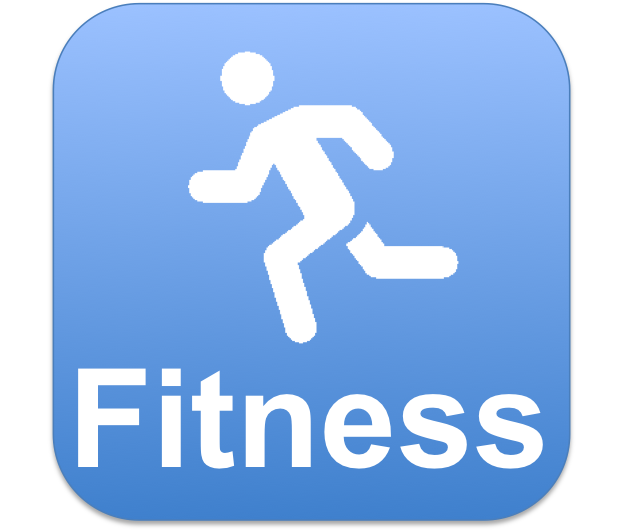
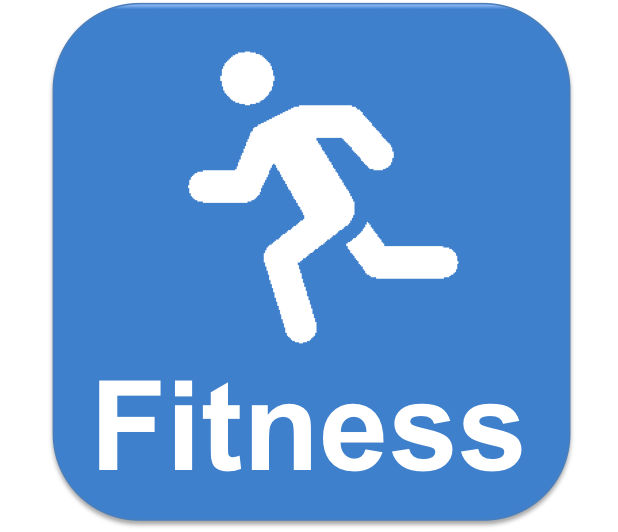
updated UI with images made in powerpoint.. TODO: invest in photoshop

diff --git a/thoughtfulgiftgen/templates/blog/index.html b/thoughtfulgiftgen/templates/blog/index.html
@@ -12,31 +12,33 @@ TODO:
     this is what you should do
 </section>
 <form class="submit-form" action="/submit/" method="GET">{% csrf_token %}
-<section id="gender" class="grid-half">
+<section id="gender" class="grid-fourth">
     <div class="section-title">
         Gender:
     </div>
 
-    <img id="female_gender_icon" class="gender_icon" src="{{STATIC_URL}}/img/gender-icon/female.png" width="50px" height="150px" value="Female">
-    <img id="male_gender_icon" class="gender_icon" src="{{STATIC_URL}}/img/gender-icon/male.png" width="50px" height="150px" value="Male">
+    <img id="female_gender_icon" class="gender_icon" src="{{STATIC_URL}}/img/gender-icon/female.png" width="58px" height="175px" value="Female">
+    <img id="male_gender_icon" class="gender_icon" src="{{STATIC_URL}}/img/gender-icon/male.png" width="57px" height="175px" value="Male">
     <input id="gender_input" type="hidden" name="gender" />
 
 </section>
-<section id="age" class="grid-half">
+<section id="age" class="grid-fourth">
     <div class="section-title">
         Age:
     </div>
     <div>
         <span>
-            <img id="age_1" class="age_icon" value="age_1" src="{{STATIC_URL}}img/age_zero_to_five.png" width="85px">
-            <img id="age_2" class="age_icon" value="age_2" src="{{STATIC_URL}}img/age_zero_to_five.png" width="85px">
-            <img id="age_3" class="age_icon" value="age_3" src="{{STATIC_URL}}img/age_zero_to_five.png" width="85px">
-            <img id="age_4" class="age_icon" value="age_4" src="{{STATIC_URL}}img/age_zero_to_five.png" width="85px">
+            <img id="age_1" class="age_icon" value="age_1" src="{{STATIC_URL}}img/age-icon/age-1.png" width="85px">
+            <img id="age_2" class="age_icon" value="age_2" src="{{STATIC_URL}}img/age-icon/age-2a.png" width="85px">
+            <img id="age_3" class="age_icon" value="age_3" src="{{STATIC_URL}}img/age-icon/age-3b.png" width="85px">
+            <img id="age_4" class="age_icon" value="age_4" src="{{STATIC_URL}}img/age-icon/age-4b.png" width="85px">
+            <img id="age_5" class="age_icon" value="age_4" src="{{STATIC_URL}}img/age-icon/age-5b.png" width="85px">
+            <img id="age_6" class="age_icon" value="age_4" src="{{STATIC_URL}}img/age-icon/age-6b.png" width="85px">
             <input id="age_input" type="hidden" name="age" />
         </span>
     </div>
 </section>
-<section id="category" class="grid-full">
+<section id="category" class="grid-fourth">
     <div class="section-title">
         Category:
     </div>
@@ -48,7 +50,7 @@ TODO:
         <img id="fitness_flag"class="category_icon" src="{{STATIC_URL}}img/category-icon/fitness.png" width="85px" value="fitness">
         <input id="fitness_flag_input" type="hidden" name="fitness_flag" />
         
-        <img id="fashion_flag"class="category_icon" src="{{STATIC_URL}}img/category-icon/fashion2.png" width="85px" value="fashion">
+        <img id="fashion_flag"class="category_icon" src="{{STATIC_URL}}img/category-icon/fashion.png" width="85px" value="fashion">
         <input id="fashion_flag_input" type="hidden" name="fashion_flag" />
                 
         <img id="travel_flag" class="category_icon" src="{{STATIC_URL}}img/category-icon/travel.png" width="85px" value="travel">
@@ -60,16 +62,16 @@ TODO:
         <img id="home_flag" class="category_icon" src="{{STATIC_URL}}img/category-icon/home.png" width="85px" value="music">
         <input id="music_flag_input" type="hidden" name="home_flag" />
 </section>
-<section id="amount" class="grid-full">
+<section id="amount" class="grid-fourth">
     <div class="section-title">
         Price:
     </div>
     <div>
         <span>
-            <img id="price_1" class="price_icon" value="price_1" src="{{STATIC_URL}}img/price-icon/price-1.png" width="85px">
-            <img id="price_2" class="price_icon" value="price_2" src="{{STATIC_URL}}img/price-icon/price-2.png" width="85px">
-            <img id="price_3" class="price_icon" value="price_3" src="{{STATIC_URL}}img/price-icon/price-3.png" width="85px">
-            <img id="price_4" class="price_icon" value="price_4" src="{{STATIC_URL}}img/price-icon/price-4.png" width="85px">
+            <img id="price_1" class="price_icon" value="price_1" src="{{STATIC_URL}}img/price-icon/price-1a.png" data-alt-src="{{STATIC_URL}}img/price-icon/price-1b.png" width="85px">
+            <img id="price_2" class="price_icon" value="price_2" src="{{STATIC_URL}}img/price-icon/price-2a.png" data-alt-src="{{STATIC_URL}}img/price-icon/price-2b.png" width="85px">
+            <img id="price_3" class="price_icon" value="price_3" src="{{STATIC_URL}}img/price-icon/price-3a.png" data-alt-src="{{STATIC_URL}}img/price-icon/price-3b.png" width="85px">
+            <img id="price_4" class="price_icon" value="price_4" src="{{STATIC_URL}}img/price-icon/price-4a.png" data-alt-src="{{STATIC_URL}}img/price-icon/price-4b.png" width="85px">
             <input id="price_range" type="hidden" name="price" />
         </span>
     </div>

diff --git a/thoughtfulgiftgen/static/index.js b/thoughtfulgiftgen/static/index.js
@@ -45,16 +45,18 @@ $(document).ready(function() {
   $('.price_icon').click(function(){
     var $this = $(this);
     var $age_icon_class = $('.price_icon');
+    var aSource = $this.data('src');
+    var bSource = $this.data('alt-src');
     //if another input is already selected
     if ($(this).hasClass('off')){
-     $this.removeClass('off');
-     $this.addClass('on');
-     $age_icon_class.not("#"+$this.attr("id")).removeClass('on').addClass('off');
+      $this.removeClass('off');
+      $this.addClass('on');
+      $age_icon_class.not("#"+$this.attr("id")).removeClass('on').addClass('off');
     }
     //first time any option is selected (nothing has a class)
     else {
-     $age_icon_class.not("#"+$this.attr("id")).addClass('off');
-     $this.addClass('on');
+    $age_icon_class.not("#"+$this.attr("id")).addClass('off').attr('src');
+      $this.addClass('on');
     }
     $('#price_input').val($this.attr('value'));
   });
@@ -78,5 +80,16 @@ $(document).ready(function() {
     }
   });
 
+  var sourceSwap = function () {
+      var $this = $(this);
+      var newSource = $this.data('alt-src');
+      $this.data('alt-src', $this.attr('src'));
+      $this.attr('src', newSource);
+  };
 
+  $(function() {
+      $('img[data-alt-src]').each(function() {
+          new Image().src = $(this).data('alt-src');
+      }).hover(sourceSwap, sourceSwap);
+  });
 });

diff --git a/thoughtfulgiftgen/static/style.css b/thoughtfulgiftgen/static/style.css
@@ -46,7 +46,6 @@ time, mark, audio, video {
   margin: 0;
   padding: 0;
   border: 0;
-  font-family: "Helvetica Neue", Arial, sans-serif;
   font-size: 100%;
   font: inherit;
   vertical-align: baseline;
@@ -74,6 +73,7 @@ html {
   overflow-y: scroll;
   -webkit-text-size-adjust: 100%;
   -ms-text-size-adjust: 100%;
+
 }
 
 /*  Display audio, canvas, and video elements as inline block elements. */
@@ -158,6 +158,7 @@ a:active {
 
 #masthead{
   font-size: 30px;
+  font-weight: 400;
 }
 
 .content {
@@ -341,14 +342,16 @@ body{
   font-family: "Helvetica Neue", Arial, sans-serif;
   letter-spacing: 1px;
 }
-
+/* Section Dividers*/
 #gender,#age{
-  height: 150px;
+  height: 250px;
 }
 
 #category{
   height: 225px;
 }
+
+/*Images*/
 
 /*Image toggling*/
 img.on{

diff --git a/thoughtfulgiftgen/templates/base.html b/thoughtfulgiftgen/templates/base.html
@@ -6,6 +6,7 @@
         <link rel="stylesheet" type="text/css" href="{{STATIC_URL}}style.css">
         <link rel="stylesheet" type="text/css" href="{{STATIC_URL}}style.css">
 		<link href='http://fonts.googleapis.com/css?family=Average+Sans' rel='stylesheet' type='text/css'>
+        <link href='http://fonts.googleapis.com/css?family=Droid+Serif' rel='stylesheet' type='text/css'>
         <script src="http://code.jquery.com/jquery-latest.min.js" type="text/javascript"></script>
         <script src="{{STATIC_URL}}index.js"></script>
         <title>
